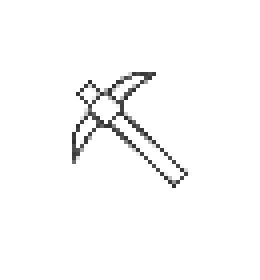
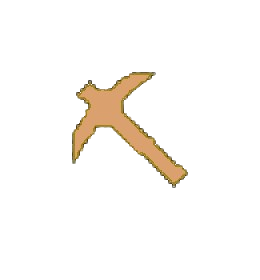
add hook

Changed region(s): [[0.2769, 0.2571, 0.7385, 0.6857]]

diff --git a/App/src/components/rope.js b/App/src/components/rope.js
@@ -30,9 +30,6 @@ export default class Rope {
       .setVisible(false);
     this.dynamiteUsedThisCycle = false;
 
-    // this.hookSprite = this.scene.add.sprite(this.baseX, this.baseY, 'hookImage');
-    // this.hookSprite.setOrigin(0.5, 0.5); // center origin
-    // this.hookSprite.setScale(0.5); // scale to fit, adjust as needed
     this.setupInput();
   }
 
@@ -210,19 +207,43 @@ export default class Rope {
     const { hookX, hookY } = this.getHookPosition();
   
     this.graphics.clear();
-    this.graphics.lineStyle(4, 0x5C4033);
-    this.graphics.lineBetween(this.baseX, this.baseY, hookX, hookY);
   
-    // Use the new helper function to get swinging line endpoints
-    const { startX, startY, endX, endY } = this.calculateSwingingLinePoints(hookX, hookY, this.ropeAngle);
-    this.graphics.lineStyle(2, 0xFF0000);
-    this.graphics.lineBetween(startX, startY, endX, endY);
-  }
-  drawHook() {
-    const { hookX, hookY } = this.getHookPosition();
-    const { startX, startY, endX, endY } = this.calculateSwingingLinePoints(hookX, hookY, this.ropeAngle);
-    this.graphics.lineStyle(3, 0xA0522D);
-    this.graphics.lineBetween(startX, startY, endX, endY);
-  }
+    // draw the rope line
+    this.graphics.lineStyle(4, 0xDAA06D);
+    this.graphics.lineBetween(this.baseX, this.baseY, hookX, hookY);
 
+    this.drawHook(hookX, hookY);
+  }  
+  drawHook(hookX, hookY){
+    const angleRad = Phaser.Math.DegToRad(this.ropeAngle + 180);
+  
+    const hookLength = 20;
+    const endX = hookX + hookLength * Math.sin(angleRad);
+    const endY = hookY + hookLength * Math.cos(angleRad);
+  
+    this.graphics.lineStyle(3, 0xDAA06D);
+    this.graphics.lineBetween(hookX, hookY, endX, endY);
+  
+    const wingLength = 10;
+    const leftWingX = hookX + wingLength * Math.sin(angleRad - Math.PI / 2);
+    const leftWingY = hookY + wingLength * Math.cos(angleRad - Math.PI / 2);
+    const rightWingX = hookX + wingLength * Math.sin(angleRad + Math.PI / 2);
+    const rightWingY = hookY + wingLength * Math.cos(angleRad + Math.PI / 2);
+  
+    this.graphics.lineBetween(leftWingX, leftWingY, rightWingX, rightWingY);
+  
+    // Add small claw ends to each side of the wing
+    const clawLength = 6;
+    const clawAngle = Math.PI / 4; // 45 degrees
+  
+    // Left claw (at left wing tip, angled upward)
+    const leftClawX = leftWingX + clawLength * Math.sin(angleRad - Math.PI / 2 - clawAngle);
+    const leftClawY = leftWingY + clawLength * Math.cos(angleRad - Math.PI / 2 - clawAngle);
+    this.graphics.lineBetween(leftWingX, leftWingY, leftClawX, leftClawY);
+  
+    // Right claw (at right wing tip, angled upward)
+    const rightClawX = rightWingX + clawLength * Math.sin(angleRad + Math.PI / 2 + clawAngle);
+    const rightClawY = rightWingY + clawLength * Math.cos(angleRad + Math.PI / 2 + clawAngle);
+    this.graphics.lineBetween(rightWingX, rightWingY, rightClawX, rightClawY);
+  }
 }

diff --git a/App/src/scenes/GameScene.js b/App/src/scenes/GameScene.js
@@ -26,12 +26,10 @@ export default class GameScene extends Phaser.Scene {
     this.load.image('dynamit', 'assets/dynamite.jpg'); // Preload dynamite
     this.load.image('background', '../../assets/background.png');
     this.load.image('ropeTexture', '../../assets/rope.avif');
-    this.load.image('hook', '../../assets/hook.jpg');
+    this.load.image('hookImage', '../../assets/hook.jpg');
   }
 
   create() {
-
-    // this.add.image(400, 300, 'background').setOrigin(0.5, 0.5).setDepth(-1);
     this.add.image(400, 300, 'background')
       .setOrigin(0.5, 0.5)
       .setDisplaySize(this.scale.width, this.scale.height)
